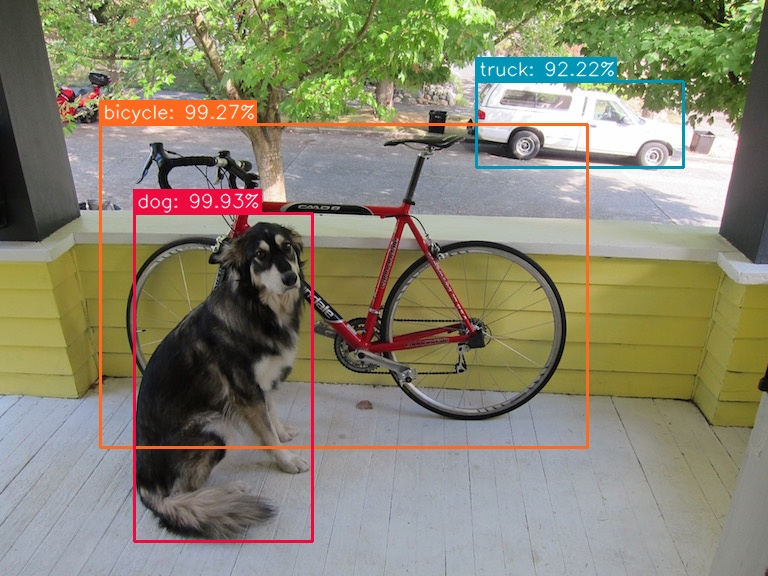
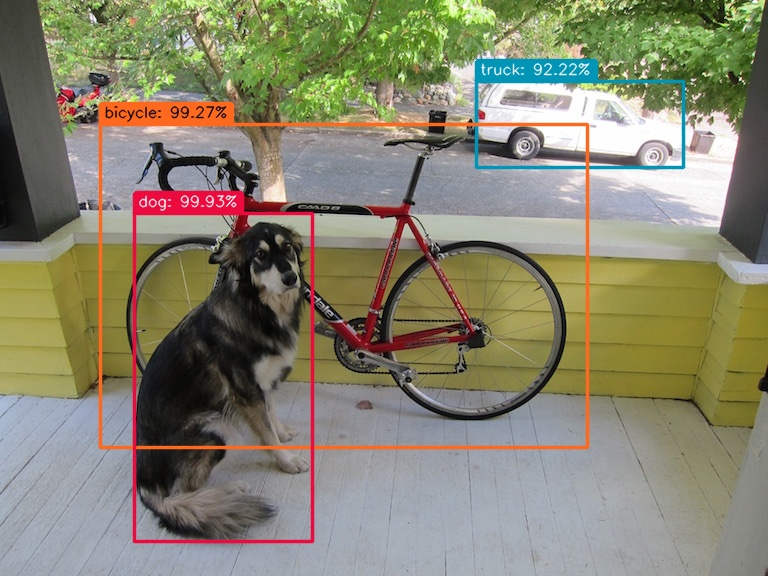
Formatted text labels as tabs.

diff --git a/src/Image.cpp b/src/Image.cpp
@@ -150,6 +150,16 @@ static constexpr uint32_t crayola16[] = {
         0xffffff
 };
 
+static constexpr uint32_t darknet[] = {
+        0xff00ff,
+        0x0000ff,
+        0x00ffff,
+        0x00ff00,
+        0xffff00,
+        0xff0000
+};
+
+
 #define COLOR_ENTRY(i, cmap) cmap[i % (sizeof(cmap) / sizeof(cmap[0]))]
 
 cv::Mat imread_tiff(const char* path)
@@ -430,17 +440,53 @@ PxCpuVector imvector(const cv::Mat& image)
     return vector;
 }
 
-void imrect(cv::Mat& image, const cv::Rect& rect, uint32_t rgb, int thickness)
+void imrect(cv::Mat& image, const cv::Rect& rect, uint32_t rgb, int thickness, int lineType)
 {
-    rectangle(image, rect, MAKE_CV_COLOR(rgb), thickness, LINE_8, 0);
+    rectangle(image, rect, MAKE_CV_COLOR(rgb), thickness, lineType, 0);
 }
 
-void imtext(Mat& image, const char* text, const cv::Point& ptOrg, uint32_t textColor, uint32_t bgColor, int thickness)
+void imtabbed_rect(cv::Mat& image, const cv::Point& pt1, const cv::Point& pt2, uint32_t rgb, int thickness,
+                   int lineType, int cornerRadius)
+{
+    auto lineColor = MAKE_CV_COLOR(rgb);
+
+    cv::Rect rect(pt1, pt2);
+    auto p1 = rect.tl();
+    auto p2 = Point(rect.br().x, rect.tl().y);
+    auto p3 = rect.br();
+    auto p4 = Point(rect.tl().x, rect.br().y);
+
+    auto q1 = Point(p1.x + cornerRadius, p1.y);
+    auto q2 = Point(p2.x - cornerRadius, p2.y);
+    auto q3 = Point(p2.x, p2.y + cornerRadius);
+    auto q4 = Point(p3.x, p3.y);
+    auto q5 = Point(p4.x, p4.y);
+    auto q6 = Point(p3.x, p3.y);
+    auto q7 = Point(p1.x, p1.y + cornerRadius);
+    auto q8 = Point(p4.x, p4.y);
+
+    line(image, q1, q2, lineColor, thickness, LINE_AA);
+    line(image, q3, q4, lineColor, thickness, LINE_AA);
+    line(image, q5, q6, lineColor, thickness, LINE_AA);
+    line(image, q7, q8, lineColor, thickness, LINE_AA);
+
+    ellipse(image, p1 + Point(cornerRadius, cornerRadius), Size(cornerRadius, cornerRadius), 180.0, 0, 90, lineColor,
+            thickness, lineType);
+    ellipse(image, p2 + Point(-cornerRadius, cornerRadius), Size(cornerRadius, cornerRadius), 270.0, 0, 90, lineColor,
+            thickness, lineType);
+
+    if (lineType == FILLED) {
+        cv::fillConvexPoly(image, std::vector<Point>{ q1, q2, q3, q4, q5, q6, q7, q8 }, lineColor, LINE_AA);
+    }
+}
+
+void imtabbed_text(cv::Mat& image, const char* text, const cv::Point& ptOrg, uint32_t textColor, uint32_t bgColor,
+                   int thickness)
 {
     constexpr auto fontFace = FONT_HERSHEY_SIMPLEX;
-    constexpr auto fontScale = 0.618f;
+    constexpr auto fontScale = 0.5f;
     constexpr auto xbuffer = 4;
-    constexpr auto ybuffer = 2;
+    constexpr auto ybuffer = 0;
 
     auto baseline = 0;
     auto textSize = getTextSize(text, fontFace, fontScale, thickness, &baseline);
@@ -449,11 +495,12 @@ void imtext(Mat& image, const char* text, const cv::Point& ptOrg, uint32_t textC
     textSize.width += xbuffer;
     textSize.height += baseline;
 
-    Point ptStart(ptOrg.x - (thickness / 2), ptOrg.y - (thickness / 2));
-    Point ptEnd(ptStart.x + textSize.width, ptStart.y - textSize.height);
+    Point ptStart(ptOrg.x - (thickness / 2) + 1, ptOrg.y - (thickness / 2));
+    Point ptEnd(ptStart.x + textSize.width + xbuffer, ptStart.y - textSize.height);
     Point ptText(ptStart.x + xbuffer, ptStart.y - baseline + thickness + ybuffer);
 
-    rectangle(image, ptStart, ptEnd, MAKE_CV_COLOR(bgColor), FILLED);
+    imtabbed_rect(image, ptStart, ptEnd, bgColor, thickness, FILLED);
+
     putText(image, text, ptText, fontFace, fontScale, MAKE_CV_COLOR(textColor), 1, LINE_AA);
 }
 
@@ -474,7 +521,7 @@ uint32_t imtextcolor(uint32_t bgColor)
 
     const auto luma = 0.2126f * std::pow(r, gamma) + 0.7152f * std::pow(g, gamma) + 0.0722f * std::pow(b, gamma);
 
-    return luma > 0.314f ? black : white;
+    return luma > 0.3f ? black : white;
 }
 
 } // px

diff --git a/include/Image.h b/include/Image.h
@@ -18,6 +18,7 @@
 #define PIXIENN_IMAGE_H
 
 #include <opencv2/core/mat.hpp>
+#include <opencv2/imgproc.hpp>
 #include "PxTensor.h"
 
 namespace px {
@@ -42,9 +43,11 @@ void imconvolve(const cv::Mat& image, const cv::Mat& kernel, int stride, int cha
 void imset(cv::Mat& image, int x, int y, int c, float value);
 void imzero(const cv::Mat& image, int c);
 PxCpuVector imvector(const cv::Mat& image);
-void imrect(cv::Mat& image, const cv::Rect& rect, uint32_t color, int thickness = 1);
-void imtext(cv::Mat& image, const char* text, const cv::Point& ptOrg, uint32_t textColor, uint32_t bgColor,
-            int thickness = 1);
+void imrect(cv::Mat& image, const cv::Rect& rect, uint32_t color, int thickness = 1, int lineType = cv::LINE_AA);
+void imtabbed_rect(cv::Mat& img, const cv::Point& pt1, const cv::Point& pt2, uint32_t color,
+                   int thickness = 1, int lineType = cv::LINE_AA, int cornerRadius = 2);
+void imtabbed_text(cv::Mat& image, const char* text, const cv::Point& ptOrg, uint32_t textColor, uint32_t bgColor,
+                   int thickness = 1);
 uint32_t imgetcolor(uint32_t index);
 uint32_t imtextcolor(uint32_t color);
 

diff --git a/src/Model.cpp b/src/Model.cpp
@@ -317,7 +317,7 @@ void Model::overlay(const std::string& imageFile, const Detections& detects) con
         auto text = boost::format("%1%: %2$.2f%%") % label % (max * 100);
         std::cout << text << std::endl;
 
-        imtext(img, text.str().c_str(), box.tl(), textColor, bgColor, thickness);
+        imtabbed_text(img, text.str().c_str(), box.tl(), textColor, bgColor, thickness);
     }
 
     if (hasOption("tiff32")) {
